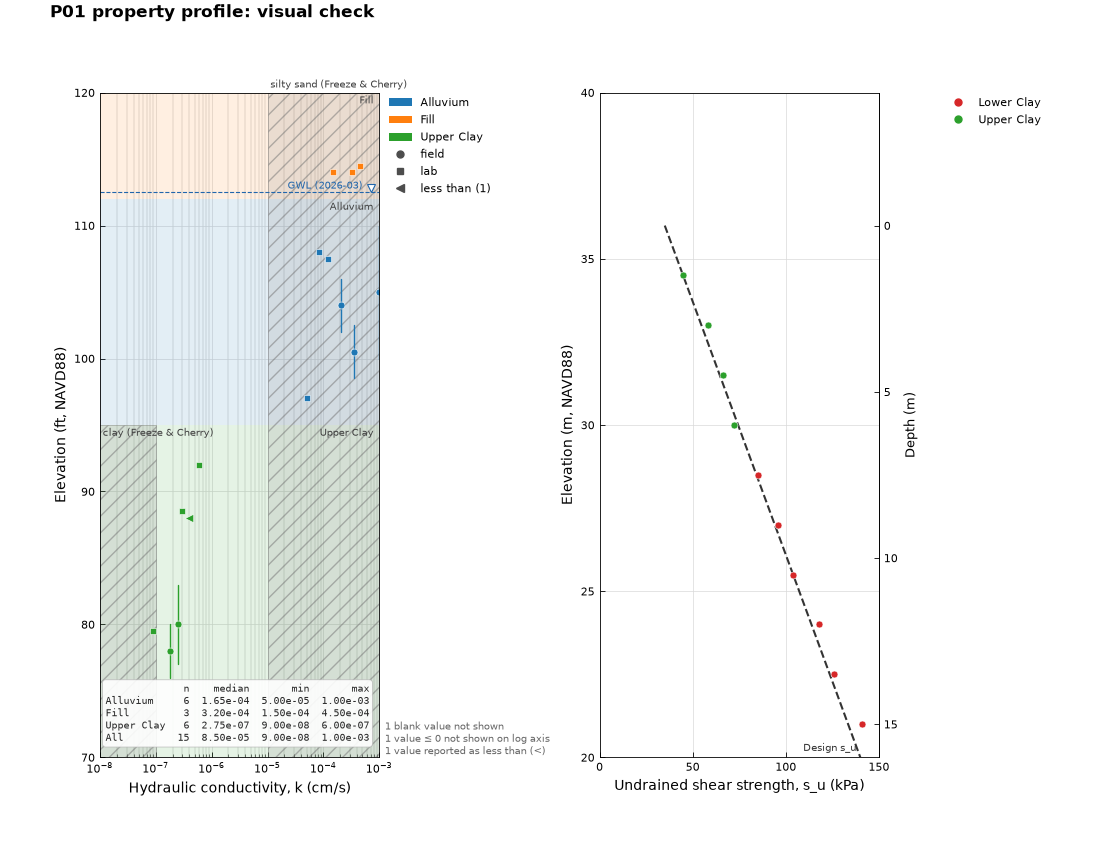
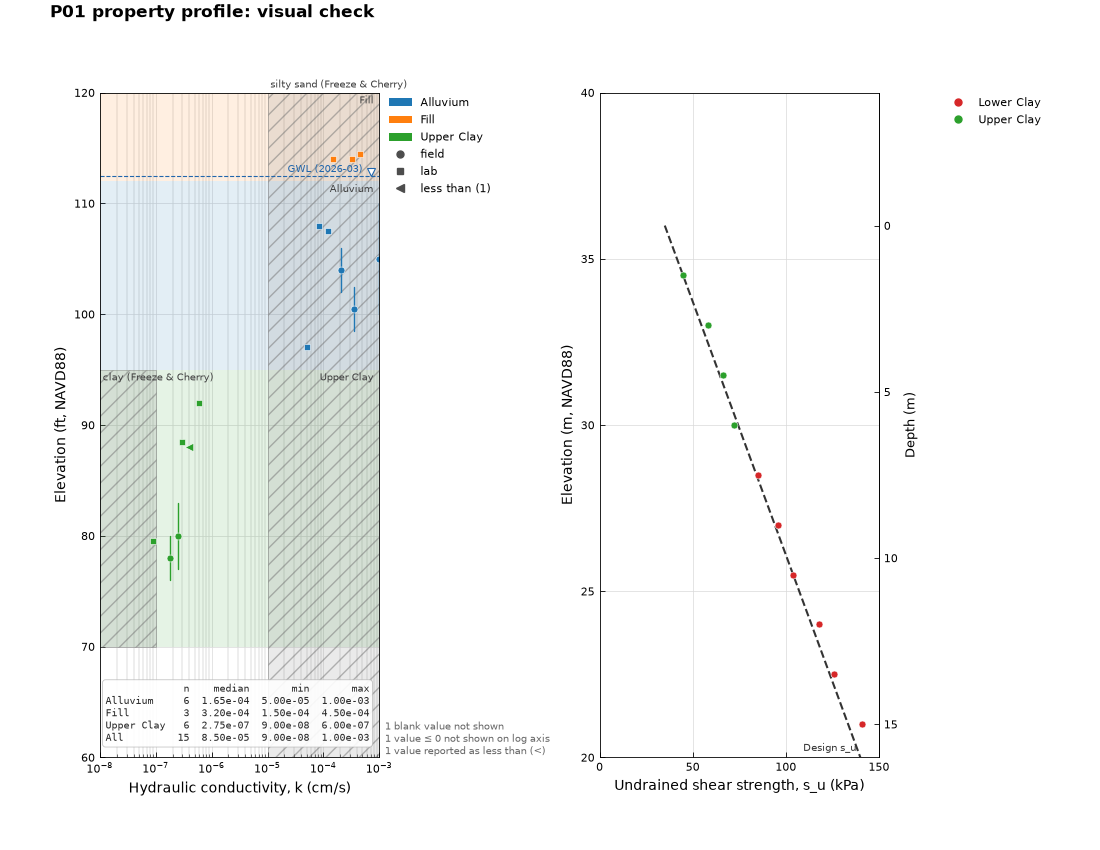
P01: make room for the stats box below the data
After review, the stats box shouldn't cover data. stats_box_room=True,
the default, measures the drawn box and moves the bottom of the
vertical axis out to a nice value so the box sits below the lowest
point or interval bar. stats_box_room=False or ylim= leaves the limits
alone. The secondary depth axis is now added after this, so its ticks
follow the deeper range.

diff --git a/src/ags_kit/plot/_profile.py b/src/ags_kit/plot/_profile.py
@@ -12,6 +12,7 @@ from matplotlib.axes import Axes
 from matplotlib.figure import Figure
 from matplotlib.lines import Line2D
 from matplotlib.patches import Patch
+from matplotlib.text import Text
 
 from ags_kit import units as _units
 from ags_kit._settings import _display_units, settings
@@ -25,6 +26,7 @@ from ags_kit.plot._limits import (
     apply_vertical_axis,
     log_limits,
     nice_limits,
+    nice_step,
     set_linear_axis,
     set_log_axis,
 )
@@ -61,6 +63,7 @@ MARKER_SIZE = 5.0  # points
 CARET_SIZE = 6.0  # points
 INTERVAL_WIDTH = 1.0  # points
 BLANK_GROUP = "(blank)"
+ROOM_MARGIN = 0.02  # axes fraction between the stats box and the lowest data
 SECONDARY_SPACE = 42.0  # points between the axes and the legend for a depth axis
 # Qualifier -> (marker, size, legend text, notes reason) (P01 §3, §7).
 QUALIFIERS = {
@@ -167,6 +170,34 @@ def _x_limits(
     if log:
         return log_limits(vmin, vmax)
     return nice_limits(vmin, vmax, start_at_zero=start_at_zero)
+
+
+def _room_below_data(ax: Axes, box: Text, lowest: float) -> None:
+    """Deepen the vertical axis so ``box`` sits below the lowest data.
+
+    ``lowest`` is the data value nearest the bottom of the axes on screen
+    (the deepest depth, or the lowest elevation). The bottom limit moves out
+    to a nice value; the top limit only rounds out to the same step.
+    """
+    figure = ax.figure
+    figure.draw_without_rendering()  # runs the layout, so sizes are final
+    renderer = figure.canvas.get_renderer()
+    box_top = box.get_bbox_patch().get_window_extent(renderer).y1
+    needed = ax.transAxes.inverted().transform((0.0, box_top))[1] + ROOM_MARGIN
+    bottom, top = ax.get_ylim()  # in screen order, for depth and elevation
+    if (lowest - bottom) / (top - bottom) >= needed or not 0 < needed < 1:
+        return
+
+    def outward(value: float, step: float, away_from: float) -> float:
+        n = value / step
+        return (math.floor(n) if value < away_from else math.ceil(n)) * step
+
+    wanted = (lowest - needed * top) / (1 - needed)
+    step = nice_step(*sorted((wanted, top)))
+    top = outward(top, step, wanted) if top % step else top
+    wanted = (lowest - needed * top) / (1 - needed)
+    step = nice_step(*sorted((wanted, top)))
+    set_linear_axis(ax, "y", (outward(wanted, step, top), top))
 
 
 def _set_vertical_axis(
@@ -414,6 +445,7 @@ def profile(
     design_lines: pd.DataFrame | None = None,
     reference_lines: list[tuple[float, str]] | None = None,
     stats_box: bool | list[str] = False,
+    stats_box_room: bool = True,
     note: str | None = None,
     palette: dict[str, str] | None = None,
     units: dict[str, str] | None = None,
@@ -454,6 +486,13 @@ def profile(
         edge with an arrow, and counted.
     xaxis_position : {"bottom", "top"}
         ``"top"`` puts the value axis at the top, as on a borehole log.
+    stats_box : bool or list of str
+        A box of statistics at the lower left: True for count, mean, std,
+        median, min and max per unit, or a list chosen from those and
+        ``"cov"``.
+    stats_box_room : bool
+        Deepen the vertical axis so the stats box sits below the lowest
+        data instead of covering it. Ignored with ``ylim=``.
     palette : dict, optional
         ``{geology unit: color}`` for this plot.
     units : dict, optional
@@ -592,8 +631,6 @@ def profile(
             draw_reference_lines(ax, reference_lines, scale)
         if note is not None:
             draw_note(ax, str(note))
-        if secondary == "depth":
-            add_secondary_depth(ax, vertical)
 
         groups, colors = _color_groups(df, color_by, palette)
         marker_groups, shapes = _marker_groups(df, marker_by)
@@ -660,7 +697,13 @@ def profile(
                 order=list(colors),
                 interval=bool(info) and info.get("scale") == "interval",
             )
-            draw_stats_box(ax, rows, None if note is None else str(note))
+            box = draw_stats_box(ax, rows, None if note is None else str(note))
+            heights = np.concatenate([y[drawn], top[bars], base[bars]])
+            if stats_box_room and ylim is None and heights.size:
+                lowest = heights.max() if vs == "depth" else heights.min()
+                _room_below_data(ax, box, float(lowest))
+        if secondary == "depth":
+            add_secondary_depth(ax, vertical)
         offset = SECONDARY_SPACE if secondary else 0.0
         add_legend(ax, [unit_handles, shape_handles, qualified], notes, offset)
         notes.render(ax, offset)

diff --git a/tests/plot/test_profile_stats.py b/tests/plot/test_profile_stats.py
@@ -240,3 +240,89 @@ def test_unknown_statistic_names_the_allowed_ones(frame):
 )
 def test_format_number(value, text):
     assert format_number(value) == text
+
+
+# --- room for the stats box ----------------------------------------------------------
+
+
+def deep_frame(frame):
+    """Twelve points down to 60 ft in six units: a tall box over the deepest."""
+    depths = [5.0 * i for i in range(1, 13)]
+    return frame(
+        values=[200.0 * i for i in range(1, 13)],
+        loca_id=["A"] * 12,
+        depth=depths,
+        ground_level=[120.0] * 12,
+        geology_unit=[f"Unit {i // 2}" for i in range(12)],
+    )
+
+
+def box_and_lowest(ax, lowest):
+    """The box top and the lowest data, as fractions of the axes height."""
+    ax.figure.draw_without_rendering()
+    renderer = ax.figure.canvas.get_renderer()
+    box_top = stats_text(ax).get_bbox_patch().get_window_extent(renderer).y1
+    to_axes = ax.transAxes.inverted()
+    data_y = ax.transData.transform((1.0, lowest))[1]
+    return to_axes.transform((0, box_top))[1], to_axes.transform((0, data_y))[1]
+
+
+@pytest.mark.parametrize(("vs", "lowest"), [("elevation", 60.0), ("depth", 60.0)])
+def test_the_axis_deepens_so_the_box_sits_below_the_data(frame, vs, lowest):
+    _, plain = ak.plot.profile(
+        deep_frame(frame),
+        "undrained_shear_strength",
+        vs=vs,
+        stats_box=True,
+        stats_box_room=False,
+    )
+    box_top, data = box_and_lowest(plain, lowest)
+    assert data < box_top  # without room, the box covers the deepest points
+    _, ax = ak.plot.profile(
+        deep_frame(frame), "undrained_shear_strength", vs=vs, stats_box=True
+    )
+    box_top, data = box_and_lowest(ax, lowest)
+    assert data > box_top
+    bottom, top = ax.get_ylim()
+    plain_bottom, plain_top = plain.get_ylim()
+    # Only the bottom moves out, to a whole number of tick steps.
+    assert abs(bottom - top) > abs(plain_bottom - plain_top)
+    step = ax.yaxis.get_major_locator()()[1] - ax.yaxis.get_major_locator()()[0]
+    assert bottom / step == pytest.approx(round(bottom / step))
+
+
+def test_intervals_count_as_data_under_the_box(frame):
+    df = deep_frame(frame)
+    df["depth_top"] = df["depth"] - 2.0
+    df["depth_base"] = df["depth"] + 8.0
+    df = ak.set_units(df, {"depth_top": "ft", "depth_base": "ft"})
+    _, ax = ak.plot.profile(df, "undrained_shear_strength", vs="depth", stats_box=True)
+    box_top, data = box_and_lowest(ax, 68.0)
+    assert data > box_top
+
+
+@pytest.mark.parametrize(
+    "kwargs",
+    [
+        {"stats_box": True, "stats_box_room": False},
+        {"stats_box": True, "ylim": (50.0, 120.0)},
+    ],
+)
+def test_room_is_left_alone_when_turned_off_or_limits_are_fixed(frame, kwargs):
+    _, plain = ak.plot.profile(
+        deep_frame(frame), "undrained_shear_strength", ylim=kwargs.get("ylim")
+    )
+    _, ax = ak.plot.profile(deep_frame(frame), "undrained_shear_strength", **kwargs)
+    assert ax.get_ylim() == plain.get_ylim()
+
+
+def test_the_secondary_depth_axis_follows_the_deeper_range(frame):
+    fig, ax = ak.plot.profile(
+        deep_frame(frame), "undrained_shear_strength", stats_box=True, secondary="depth"
+    )
+    fig.canvas.draw()
+    (depth,) = ax.child_axes
+    for d in depth.get_yticks():
+        drawn = depth.transData.transform((0.0, d))[1]
+        assert drawn == pytest.approx(ax.transData.transform((0.0, 120.0 - d))[1])
+    assert max(depth.get_yticks()) >= 120.0 - ax.get_ylim()[0] - 10.0

diff --git a/src/ags_kit/plot/_overlays.py b/src/ags_kit/plot/_overlays.py
@@ -17,6 +17,7 @@ import pandas as pd
 from matplotlib.axes import Axes
 from matplotlib.colors import to_rgb
 from matplotlib.patches import Rectangle
+from matplotlib.text import Text
 from matplotlib.transforms import blended_transform_factory, offset_copy
 
 from ags_kit.errors import AgsKitError, ColumnError, warn
@@ -720,7 +721,7 @@ def stats_table(
     return rows
 
 
-def draw_stats_box(ax: Axes, rows: Sequence[Sequence[str]], note: str | None) -> None:
+def draw_stats_box(ax: Axes, rows: Sequence[Sequence[str]], note: str | None) -> Text:
     """Write the stats table in a box at the lower left, above any ``note``."""
     widths = [max(len(row[i]) for row in rows) for i in range(len(rows[0]))]
     lines = [
@@ -731,7 +732,7 @@ def draw_stats_box(ax: Axes, rows: Sequence[Sequence[str]], note: str | None) ->
         for row in rows
     ]
     above_note = 0.0 if note is None else NOTE_LINE_HEIGHT * (note.count("\n") + 1) + 4
-    ax.text(
+    return ax.text(
         0.02,
         0.02,
         "\n".join(lines),

diff --git a/docs/plots/P01-property-profile.md b/docs/plots/P01-property-profile.md
@@ -137,7 +137,7 @@ Presets live in `config/defaults.yaml`, with the typical range in the quantity's
 | Published ranges | `ranges=` DataFrame or CSV | off | User: `low, high, label`, an optional `source`, and an optional depth or elevation pair (formats below) | Vertical translucent band (alpha 0.15, light hatching) from low to high, over top–base or the full height. Label "label (source)" at the top, starting at the left of the part inside the axes; for a full-height band it sits just above the axes when the x-axis is at the bottom, clear of the strata labels | Values converted from the declared units. A CSV path is read with `ak.read_csv`. A row whose pair is blank covers the full height, so one table can mix both. On a log axis, a `low` ≤ 0 starts at the axis edge |
 | Design lines | `design_lines=` DataFrame | off | User or P09: `label, <vs column>, value` (one polyline per label) | Bold dashed 1.5 pt, dark gray; label at the deepest point inside the axes | Same idea as AGSi parameter profiles; P09 produces these |
 | Reference lines | `reference_lines=` list of `(value, label)` | off | User | Thin vertical line 0.6 pt, dotted; label at the top (just above the axes when the x-axis is at the bottom) | e.g. a code limit. A number is in the main data's units; a string such as `"2000 psf"` carries its own |
-| Stats box | `stats_box=True`, or a list of statistics | off | pandas (no scipy needed). Default: count, mean, std, median, min, max per unit. A list chooses the statistics, e.g. `stats_box=["count", "mean", "cov"]`; allowed: `count, mean, std, cov, median, min, max` | Text box, lower left, 7 pt, above any `note` | ≤ 6 units listed in legend order, then an "All" row when there are several; otherwise "All" only. Statistics are of the values drawn, in display units: blanks and values ≤ 0 on a log axis are left out, values drawn at the edge count at their true value and qualified values at their reported value. On a log axis, statistics are of the plotted values (not log values). std is the sample standard deviation, shown as "—" when n < 2; CoV is "—" on an interval scale (TODO #9). Numbers have 3 significant figures (`1,290`, `0.0123`), in scientific notation below 0.01 or from a million (`2.30e-05`) |
+| Stats box | `stats_box=True`, or a list of statistics | off | pandas (no scipy needed). Default: count, mean, std, median, min, max per unit. A list chooses the statistics, e.g. `stats_box=["count", "mean", "cov"]`; allowed: `count, mean, std, cov, median, min, max` | Text box, lower left, 7 pt, above any `note`. By default (`stats_box_room=True`) the bottom of the vertical axis moves out to a nice value so the box sits below the lowest point or interval bar instead of covering data; `stats_box_room=False` or `ylim=` leaves the limits alone | ≤ 6 units listed in legend order, then an "All" row when there are several; otherwise "All" only. Statistics are of the values drawn, in display units: blanks and values ≤ 0 on a log axis are left out, values drawn at the edge count at their true value and qualified values at their reported value. On a log axis, statistics are of the plotted values (not log values). std is the sample standard deviation, shown as "—" when n < 2; CoV is "—" on an interval scale (TODO #9). Numbers have 3 significant figures (`1,290`, `0.0123`), in scientific notation below 0.01 or from a million (`2.30e-05`) |
 | Exclusion notes | automatic | **on** | Counts of NaN, ≤ 0 on log, beyond-limit, qualified | Footnote below the legend, 7 pt gray | **Always shown when non-zero** (no silent drops) |
 | Note | `note=` str | off | User | Lower-left text, 7 pt | |
 
@@ -191,6 +191,7 @@ def profile(
     design_lines: pd.DataFrame | None = None,
     reference_lines: list[tuple[float, str]] | None = None,
     stats_box: bool | list[str] = False,    # True -> count, mean, std, median, min, max
+    stats_box_room: bool = True,            # deepen the vertical axis so the box sits below the data
     note: str | None = None,
     # common
     palette: dict[str, str] | None = None,

diff --git a/docs/work/m2-p01-property-profile/plan.md b/docs/work/m2-p01-property-profile/plan.md
@@ -123,4 +123,4 @@ These fill gaps in P01. Each one goes into P01 in the commit that builds it.
 - `columns.yaml`: every overlay column already listed P01 in `used_by`, so no change. `TODO.md`: no change.
 - **Visual check** (`visual-check.png`, US and SI on a Letter sheet): elevation up with the datum, whole decades with `10ⁿ` labels, unit colors shared by points and strata, interval bars, the "<" caret, gray marker groups after the unit colors, the footnote counts, and the depth axis on the right with the legend clear of it. Two things to know:
   - A value exactly on a whole decade (k = 1.0e-3 cm/s) sits on the frame, because P00's `log_limits` doesn't add a decade for it.
-  - The stats box is in the lower left, as P01 §8 places it, and can cover points there; a wider `ylim=` leaves room under the data.
+  - The stats box is in the lower left, as P01 §8 places it. After review, `stats_box_room=True` (the default) deepens the vertical axis so the box sits below the lowest data.
